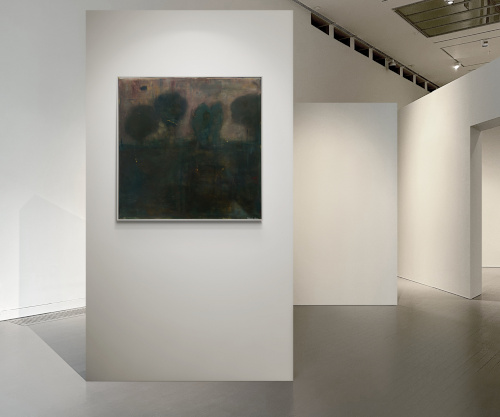
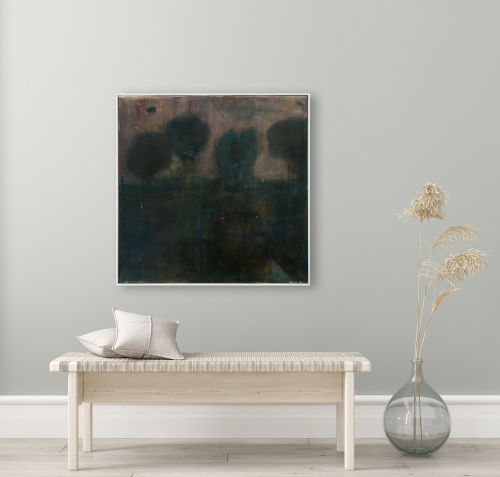
När allt är möjligt 3

diff --git a/index.html b/index.html
@@ -313,7 +313,7 @@
             <div name="lera" title="Lera" images="9" price="1 200 kr/st" description="Akrylmålning i mått 23x23 cm inklusive vit träram" class="scroll-trigger animate--fade-in"></div>
 
             <div name="karnfull" title="Kärnfull" images="2" price="9 000" description="Akrylmålning i mått 102x82 cm inklusive vit träram" class="scroll-trigger animate--fade-in"></div>
-            <div name="naralltarmojligt" title="När allt är möjligt" images="2" price="10 000" description="Akrylmålning i mått 102x102 cm inklusive vit träram" class="scroll-trigger animate--fade-in"></div>
+            <div name="naralltarmojligt" title="När allt är möjligt" images="3" price="10 000" description="Akrylmålning i mått 102x102 cm inklusive vit träram" class="scroll-trigger animate--fade-in"></div>
             
             <div name="leavingitbehind2" title="Leaving it behind" images="2" price="10 000" description="Akrylmålning i mått 102x102 cm inklusive vit träram" class="scroll-trigger animate--fade-in"></div>
             <div name="ullstrumpor" title="Ullstrumpor" images="3" price="8 000" description="Akrylmålning i mått 102x82 cm inklusive vit träram" class="scroll-trigger animate--fade-in"></div>
